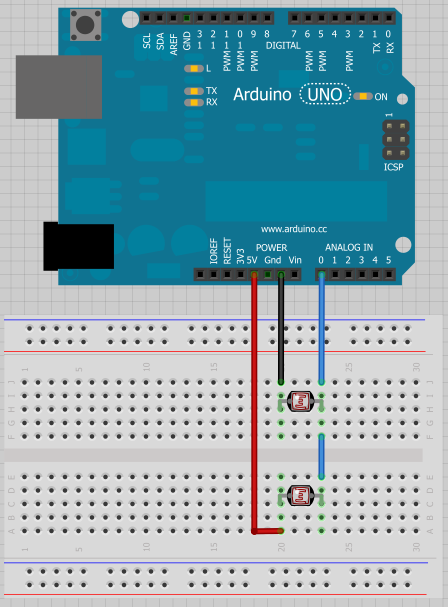
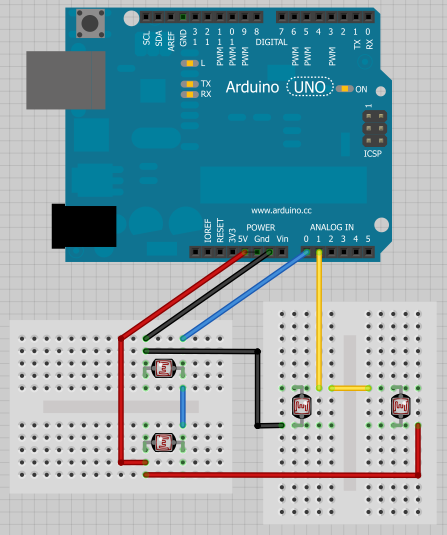
refactory

Changed region(s): [[0.0, 0.0, 0.9597, 0.9869], [0.9597, 0.5383, 0.9888, 0.5682]]

diff --git a/README.md b/README.md
@@ -1,15 +1,21 @@
-SolarTrackerAxis
+SolarTracker
 ================
 
-Solar Tracker Axis Library for Arduino
+Solar Tracker Library for Arduino
 
 ![BreadBoard](/readme/BreadBoard.png "BreadBoard")
 
 ![Scheme](/readme/Scheme.png "Scheme")
+
+Single axis
+
+![BreadBoard single axis](/readme/BreadBoard_SingleAxis.png "BreadBoard single axis")
+
+![Scheme single axis](/readme/Scheme_SingleAxis.png "Scheme single axis")
 
 Inspired by: [www.mauroalfieri.it](http://www.mauroalfieri.it/elettronica/inseguitore-solare-con-arduino.html)
 
 Installation:
 -------------
 
-Copy the SolarTrackerAxis directory in the ...\Arduino\libraries and import the library in your project.
+Copy the SolarTracker directory in the ...\Arduino\libraries and import the library in your project.
